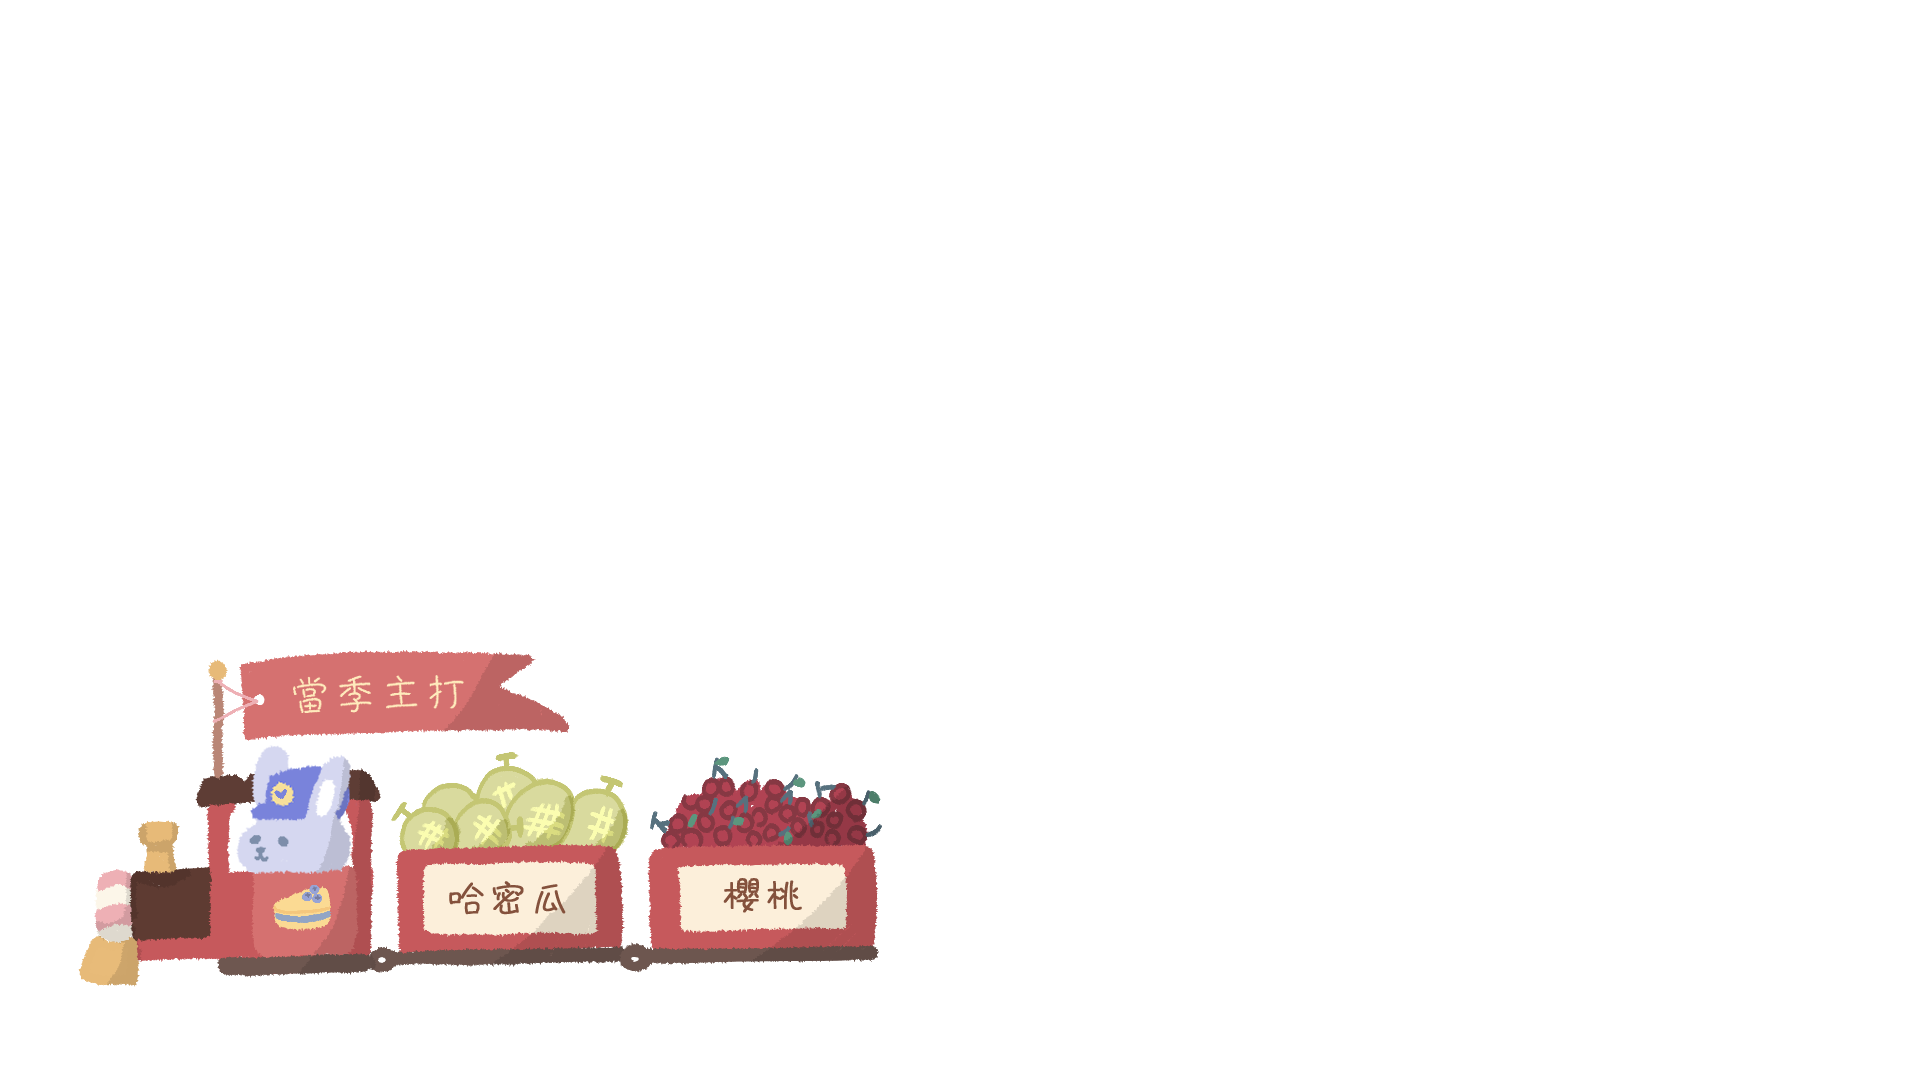
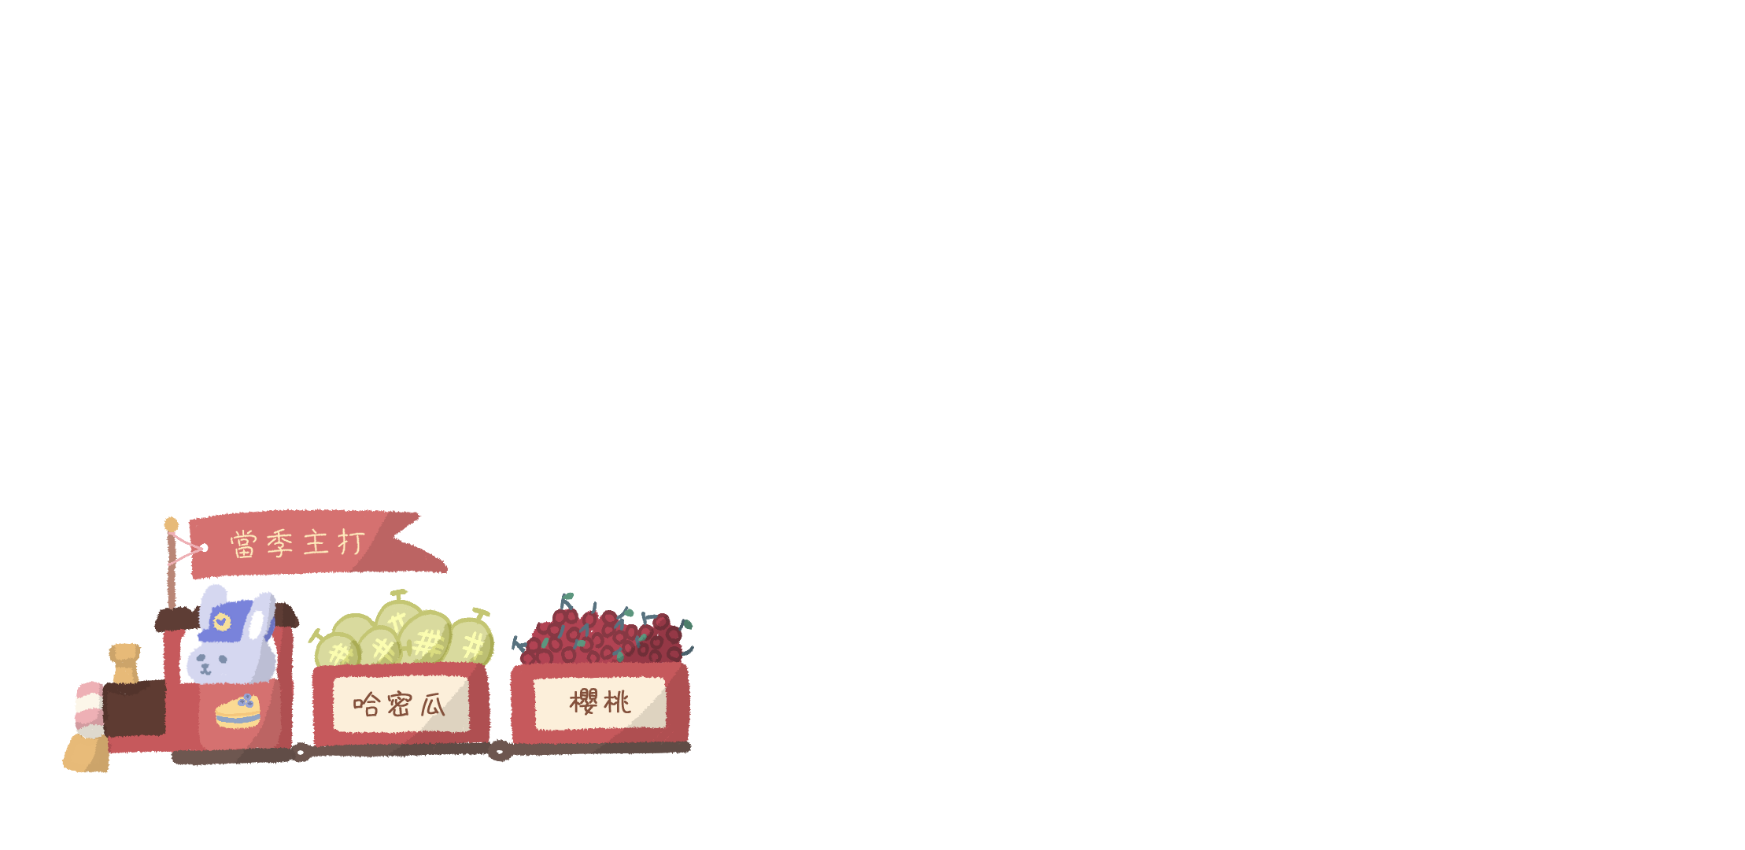
素材更新

Changed region(s): [[0.0309, 0.5812, 0.4642, 0.9176]]

diff --git a/yin/index.html b/yin/index.html
@@ -5,7 +5,7 @@
   <meta charset="UTF-8">
   <meta http-equiv="X-UA-Compatible" content="IE=edge">
   <meta name="viewport" content="width=device-width, initial-scale=1.0">
-  <title>Document</title>
+  <title>菓季</title>
   <link rel="stylesheet" href="./css/index.css">
   <!-- JQ -->
   <!-- 插件 -->
@@ -27,7 +27,7 @@
 <body>
   <nav>
     <div>
-      <img src="https://dummyimage.com/30x30/38afeb/fff" alt="Logo">
+      <img src="./Source/IMG/Logo.png" alt="Logo">
       <span>菓季</span>
     </div>
     <div id="navlist">
@@ -54,6 +54,7 @@
     <div class="keyart-layer" speed="30" id="parallax-3"></div>
     <div class="keyart-layer" speed="50" id="parallax-4"></div>
     <div class="keyart-layer" speed="100" id="parallax-5"></div>
+    <div class="keyart-layer" speed="100" id="parallax-6"></div>
   </div>
   <div id="Btnlist">
     <a href="https://line.me/ti/g2/99v75ccSrL9DvGLINwJ8XfZOttMVRKRNNx7gbA?utm_source=invitation&utm_medium=link_copy&utm_campaign=default" target="_blank"><button type="button" id="Line" class="mainbtn btn btn-success" data-bs-container="body" data-bs-toggle="popover" data-bs-placement="left" data-bs-content="Left popover">
@@ -112,7 +113,7 @@
       <div class="card mb-3" style="max-width: 560px; background-color: #F2C9C9; ">
         <div class="row g-0">
           <div class="col-md-4">
-            <img src="" class="img-fluid rounded-start" alt="...">
+            <img src="./Source/IMG/news_B.png" class="img-fluid rounded-start" alt="...">
           </div>
           <div class="col-md-8">
             <div class="card-body">
@@ -127,7 +128,7 @@
       <div class="card mb-3" style="max-width: 540px; background-color: #F2C9C9;">
         <div class="row g-0">
           <div class="col-md-4">
-            <img src="..." class="img-fluid rounded-start" alt="...">
+            <img src="./Source/IMG/news_G.png" class="img-fluid rounded-start" alt="...">
           </div>
           <div class="col-md-8">
             <div class="card-body">
@@ -142,7 +143,7 @@
       <div class="card mb-3" style="max-width: 540px; background-color: #F2C9C9;">
         <div class="row g-0">
           <div class="col-md-4">
-            <img src="..." class="img-fluid rounded-start" alt="...">
+            <img src="./Source/IMG/news_R.png" class="img-fluid rounded-start" alt="...">
           </div>
           <div class="col-md-8">
             <div class="card-body">
@@ -157,7 +158,7 @@
       <div class="card mb-3" style="max-width: 540px; background-color: #F2C9C9;">
         <div class="row g-0">
           <div class="col-md-4">
-            <img src="..." class="img-fluid rounded-start" alt="...">
+            <img src="./Source/IMG/news_BR.png" class="img-fluid rounded-start" alt="...">
           </div>
           <div class="col-md-8">
             <div class="card-body">

diff --git a/yin/css/index.css b/yin/css/index.css
@@ -128,6 +128,9 @@ body {
     background-image: url(../Source/IMG/Key-Vision/T.png);
 }
 
+#parallax-6 {
+    background-image: url(../Source/IMG/Key-Vision/train_ex.png);
+}
 /* ---------------------nav----------------------- */
 nav {
     --bg: #D0EBF6;
@@ -145,7 +148,9 @@ nav {
     z-index: 50;
 }
 
-
+nav>div>img{
+    width: 20%;
+}
 
 nav span {
     margin-left: 10px;
@@ -226,6 +231,7 @@ section {
     width: 85%;
     height: 200px;
     display: flex;
+    color: var(--Brown01);
 }
 
 /* -------------parallax----------------- */
@@ -291,7 +297,7 @@ section {
     justify-content: center;
     align-items: center;
     text-align: center;
-    color:var(--GWhite);
+    color:var(--Brown01);
 }
 
 #about_T>img {
@@ -340,7 +346,7 @@ section {
     justify-content: center;
     width: 85vw;
     margin: 20px;
-    color: var(--GWhite);
+    color: var(--Brown01);
 }
 
 #hcake>div{
@@ -365,15 +371,14 @@ section {
 /* -------------------------------------------- */
 #Contact{
 position: relative;
-width: 100%;
+width: 100vw;
 min-width: 1440px;
 height: 700px;
-
 background-image: url(../Source/IMG/Key-Vision/middle_long.png);
 background-position: top;
-background-size: 60%;
+background-size: 70%;
 background-repeat:repeat-x ;
-z-index: 3;
+z-index: 10;
 color: var(--YWhite);
 }
 

diff --git a/yin/js/index.js b/yin/js/index.js
@@ -192,3 +192,7 @@ window.addEventListener('wheel', function(e) {
   
   parallax.style.transform = `translateY(${scrollPos}px)`;
 });
+
+const width = window.innerWidth;
+const height = window.innerHeight;
+console.log(`目前網頁視窗寬度為：${width}px，高度為：${height}px`);
